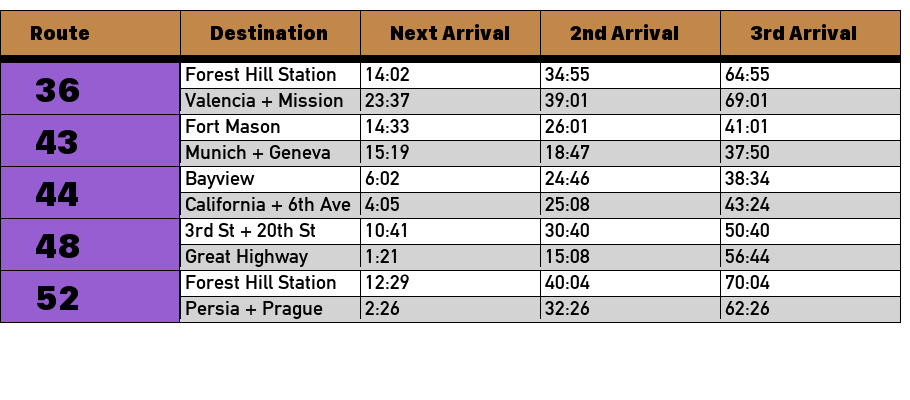
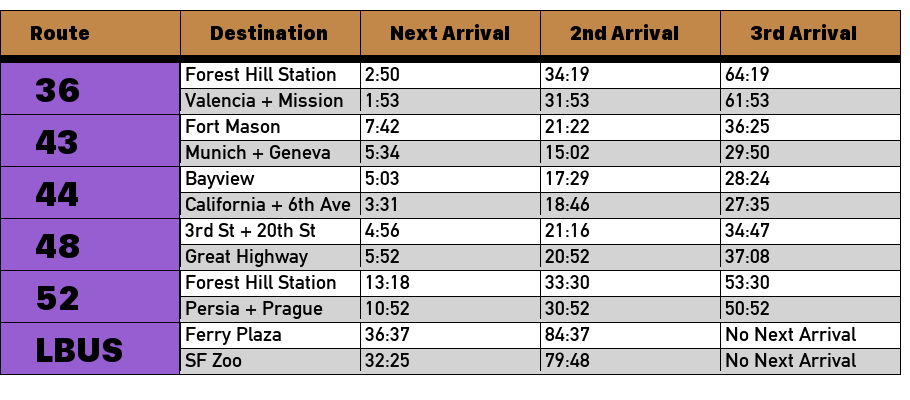
Fix bug when different lines are running

diff --git a/main.py b/main.py
@@ -145,34 +145,8 @@ def relevant_format(df):
     pivot_df = pivot_df.applymap(lambda x: format_time_delta(x) if isinstance(x, timedelta) else x)
     pivot_df = pivot_df.fillna("No Next Arrival")
     pivot_df = pivot_df.replace("Bayview District - Hudson & Newhall", 'Bayview')
-    if 'LBUS' in pivot_df['Destination'].values:
-        routes = ['36','36','43', '43', '44', '44', '48','48', '52', '52', 'LBUS','LBUS']
-        destinations = ['Forest Hill Station', 
-                    'Valencia + Mission', 
-                    'Fort Mason', 
-                    'Munich + Geneva', 
-                    'Bayview', 
-                    'California + 6th Ave', 
-                    '3rd St + 20th St', 
-                    'Great Highway',
-                    'Forest Hill Station', 
-                    'Persia + Prague', 
-                    'Ferry Plaza', 
-                    'SF Zoo'
-                    ]
-    else:
-        routes = ['36','36','43', '43', '44', '44', '48','48', '52', '52']
-        destinations = ['Forest Hill Station', 
-                    'Valencia + Mission', 
-                    'Fort Mason', 
-                    'Munich + Geneva', 
-                    'Bayview', 
-                    'California + 6th Ave', 
-                    '3rd St + 20th St', 
-                    'Great Highway',
-                    'Forest Hill Station', 
-                    'Persia + Prague', 
-                    ]
+    routes = pivot_df['Route'].tolist()
+    destinations = pivot_df['Destination'].tolist()
     column_names=['Route', 'Destination', 'Next Arrival', '2nd Arrival', '3rd Arrival']
     empty_cols = pd.DataFrame(columns=column_names[2:])          
     clean_df = pd.DataFrame({'Route':routes, 'Destination': destinations})
